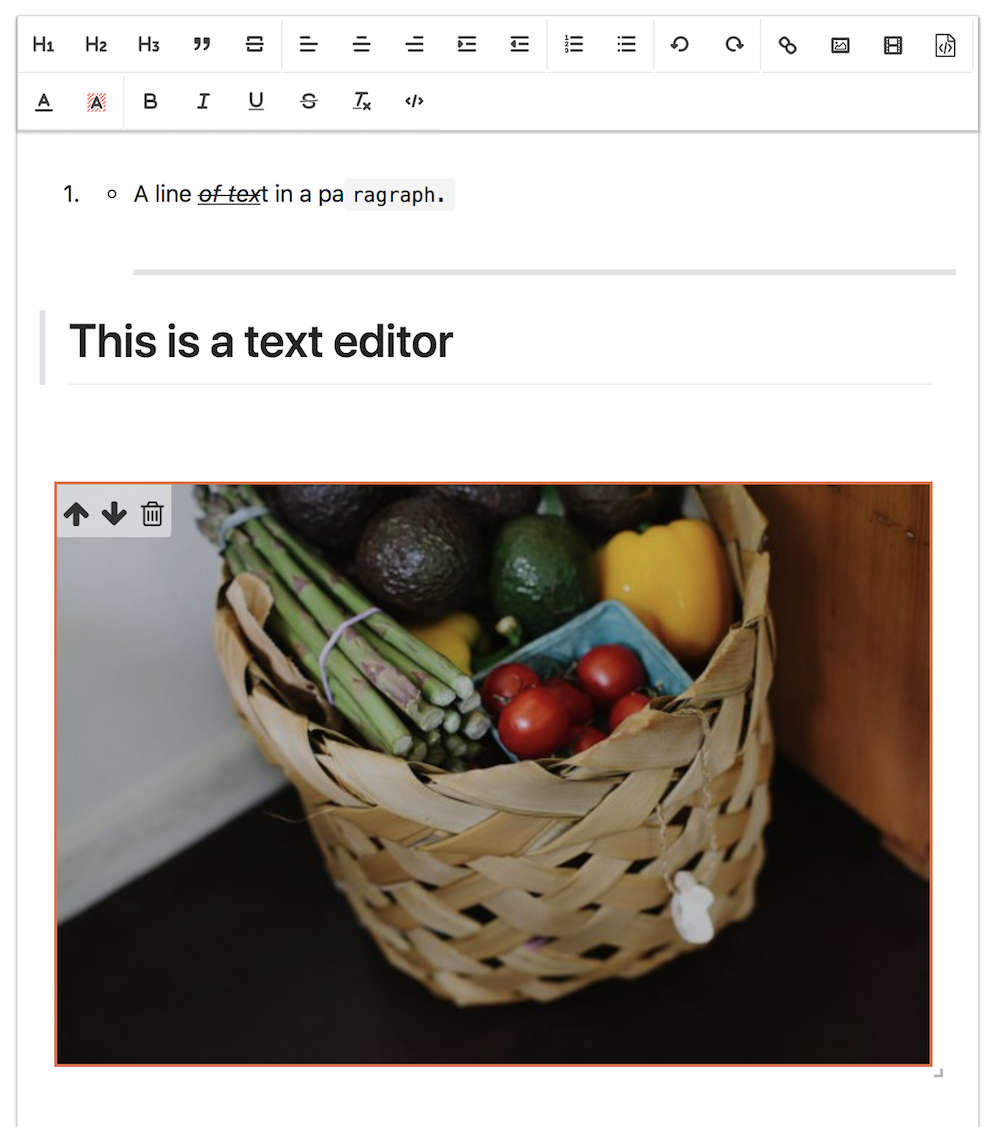
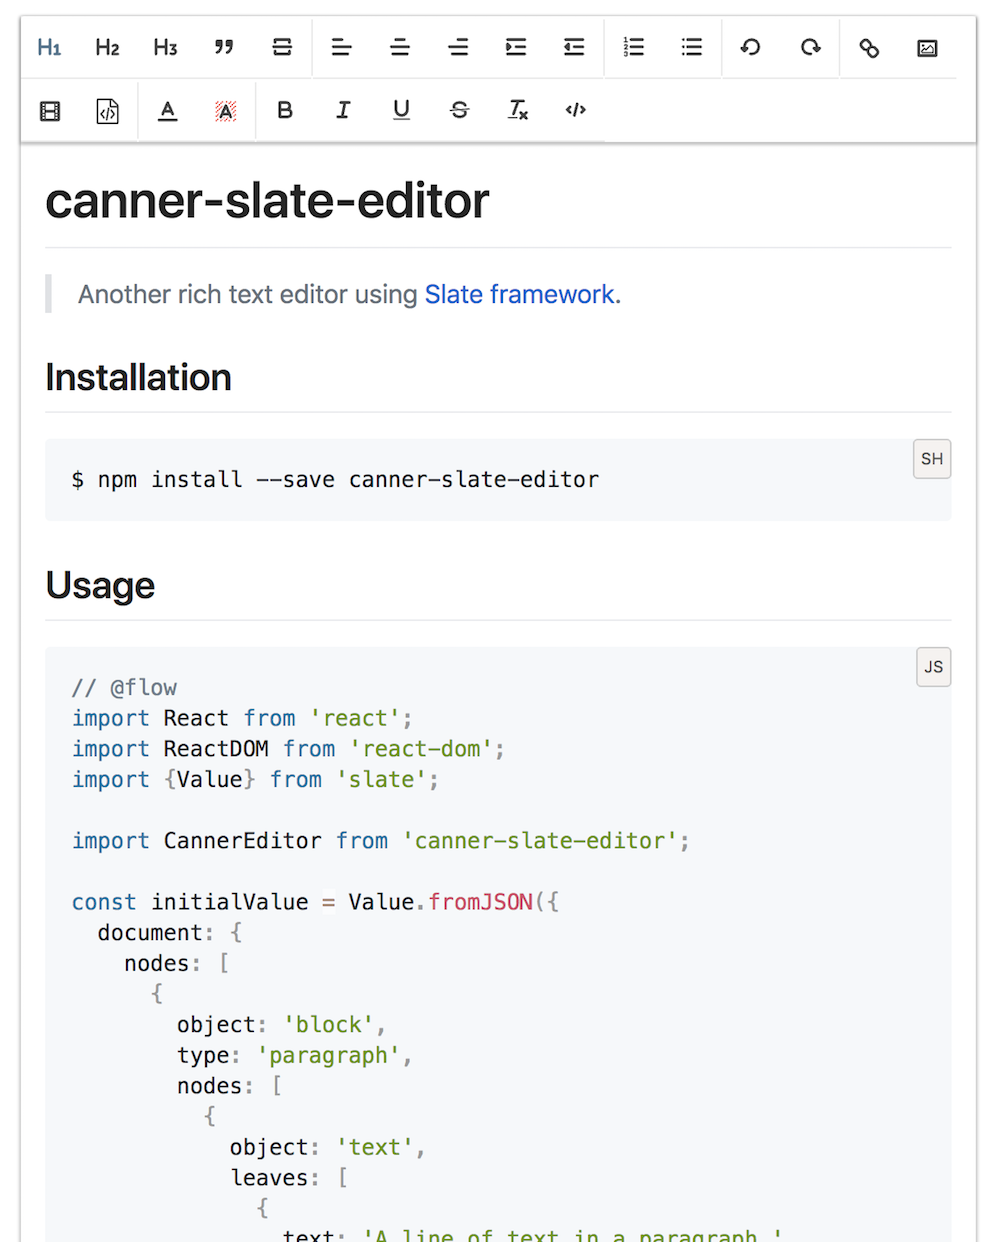
update demo

diff --git a/docs/index.js b/docs/index.js
@@ -2,29 +2,8 @@
 import React from 'react';
 import ReactDOM from 'react-dom';
 import {Value} from 'slate';
-
+import initialValue from './initialValue';
 import CannerEditor from '../src';
-
-const initialValue = Value.fromJSON({
-  document: {
-    nodes: [
-      {
-        object: 'block',
-        type: 'paragraph',
-        nodes: [
-          {
-            object: 'text',
-            leaves: [
-              {
-                text: 'A line of text in a paragraph.',
-              }
-            ],
-          },
-        ],
-      },
-    ],
-  },
-});
 
 class DemoEditor extends React.Component<*, {value: Value}> {
   // Set the initial state when the app is first constructed.

diff --git a/docs/initialValue.js b/docs/initialValue.js
@@ -1,0 +1,9 @@
+import {Value} from 'slate';
+import {State} from 'markup-it';
+import markdown from 'markup-it/lib/markdown';
+import readme from './test.md';
+
+const mdParser = State.create(markdown);
+const document = mdParser.deserializeToDocument(readme)
+
+export default Value.create({document});

diff --git a/webpack.config.dev.js b/webpack.config.dev.js
@@ -44,6 +44,10 @@ module.exports = {
             loader: 'less'
           }
         ],
+      },
+      {
+        test: /\.md$/,
+        use: 'raw-loader'
       }
     ]
   }

diff --git a/webpack.config.prod.js b/webpack.config.prod.js
@@ -48,6 +48,10 @@ module.exports = {
             loader: 'less'
           }
         ],
+      },
+      {
+        test: /\.md$/,
+        use: 'raw-loader'
       }
     ]
   }

diff --git a/docs/test.md b/docs/test.md
@@ -1,0 +1,79 @@
+# canner-slate-editor
+> Another rich text editor using [Slate framework](https://docs.slatejs.org).
+
+## Installation
+
+```sh
+$ npm install --save canner-slate-editor
+```
+
+## Usage
+
+```js
+// @flow
+import React from 'react';
+import ReactDOM from 'react-dom';
+import {Value} from 'slate';
+
+import CannerEditor from 'canner-slate-editor';
+
+const initialValue = Value.fromJSON({
+  document: {
+    nodes: [
+      {
+        object: 'block',
+        type: 'paragraph',
+        nodes: [
+          {
+            object: 'text',
+            leaves: [
+              {
+                text: 'A line of text in a paragraph.',
+              }
+            ],
+          },
+        ],
+      },
+    ],
+  },
+});
+
+class DemoEditor extends React.Component<*, {value: Value}> {
+  // Set the initial state when the app is first constructed.
+  state = {
+    value: initialValue
+  }
+
+
+  render() {
+    const {value} = this.state;
+    const onChange = ({value}) => this.setState({value});
+
+    return (
+      <div style={{margin: '20px'}}>
+        <CannerEditor
+          value={value}
+          onChange={onChange}
+          />
+      </div>
+    );
+  }
+}
+
+ReactDOM.render(
+  <DemoEditor/>
+, (document: any).getElementById('root'));
+
+```
+
+see https://github.com/Canner/canner-slate-editor/blob/master/docs/index.js
+
+## Start example server
+
+```
+npm start
+```
+
+## License
+
+Apache 2.0 [Canner](https://www.canner.io)
